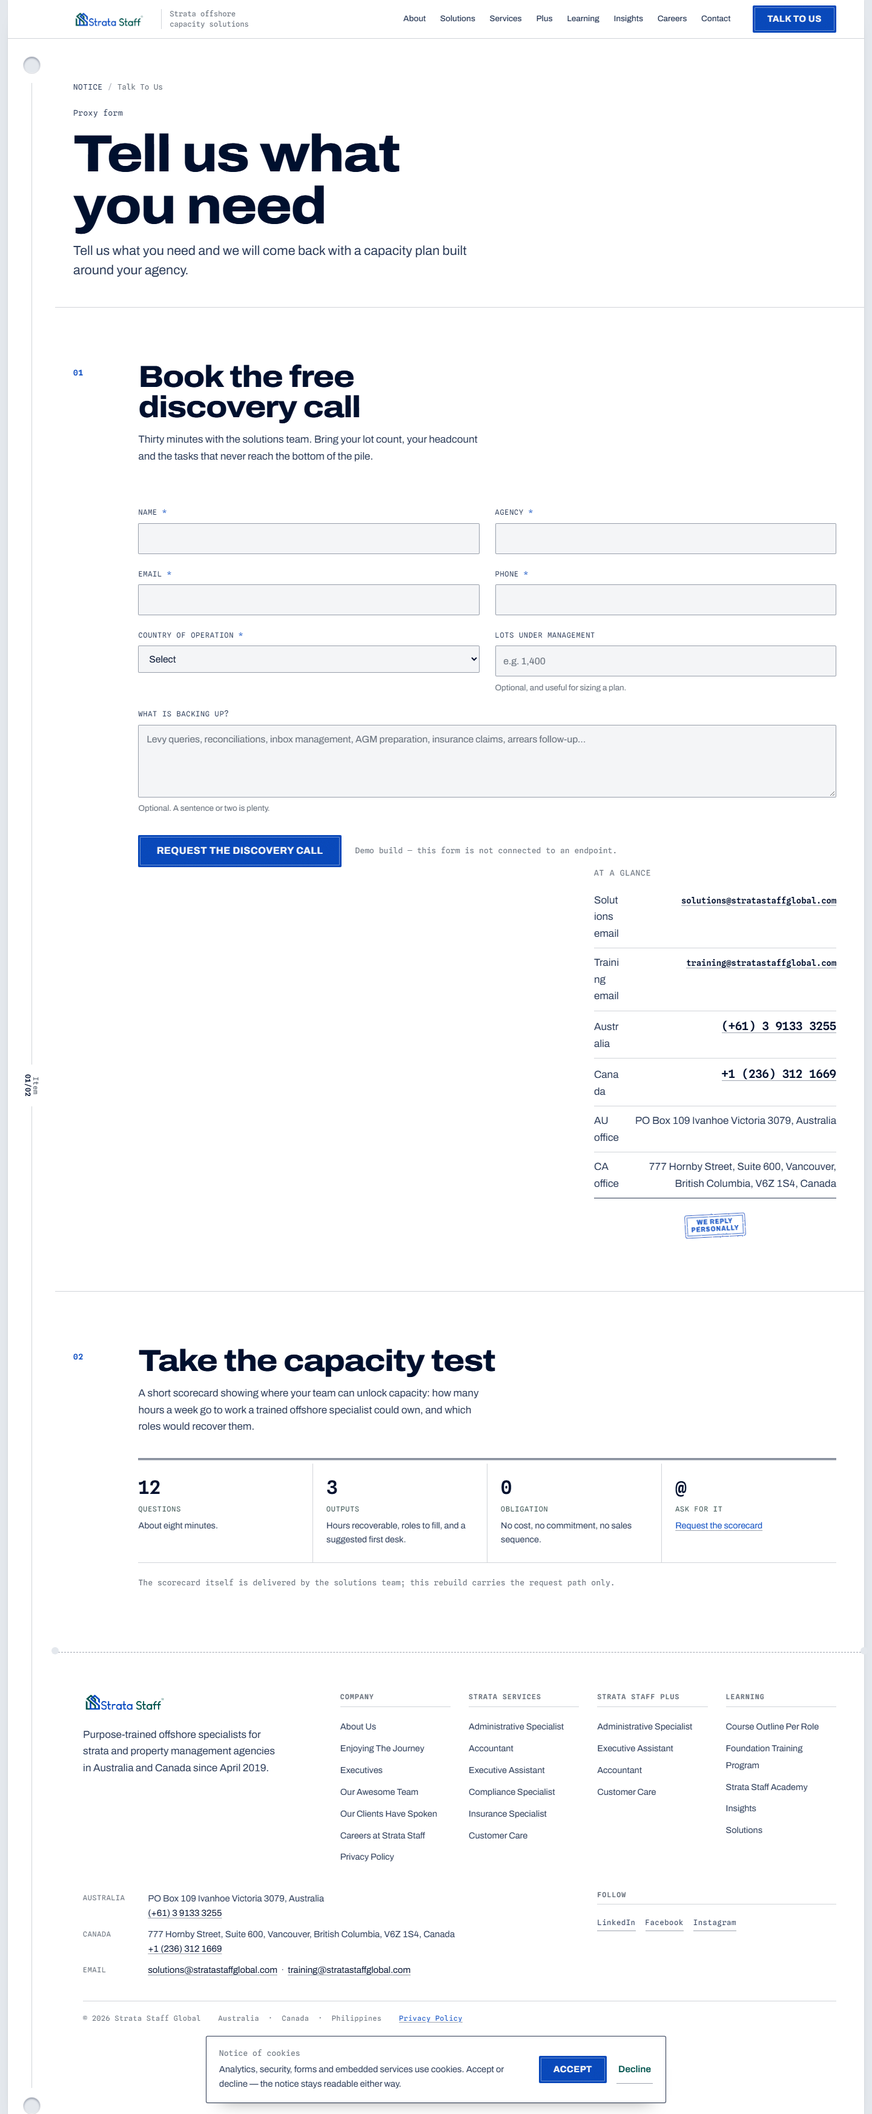
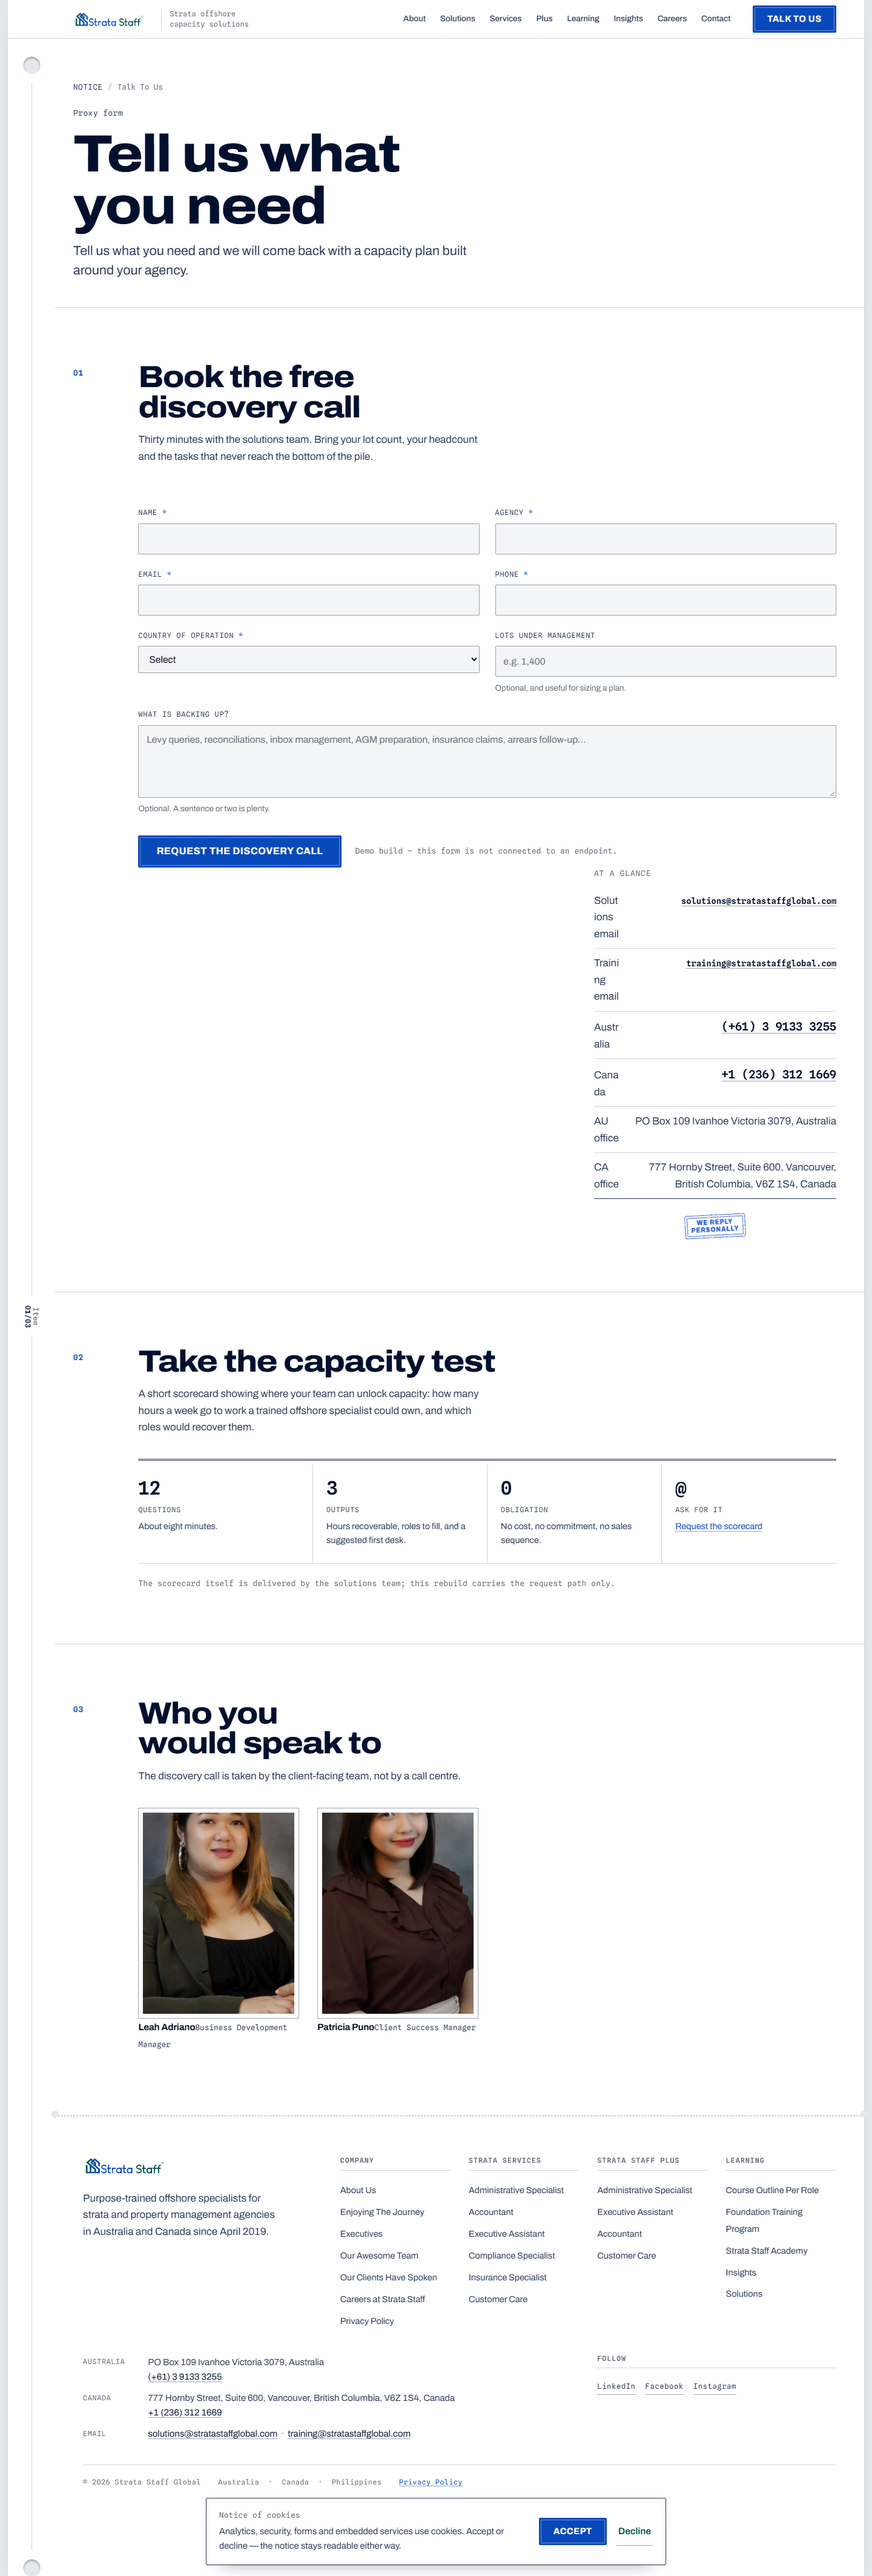
Record the second imagery pass in the docs
README, DESIGN.md and .impeccable/design.json brought in line with the build.

DESIGN.md gains a section 13 covering the rest of the site: the rule used to decide
where a photograph goes (only where the page's own subject is the thing pictured,
which is why five pages still have none), the table of which photograph went on
which page, the two optimiser bugs that would each have shipped a srcset lying
about a file's width, the four post images that are designed panels rather than
photographs and so are mounted uncropped, the alt="" policy, and the hardcoded
item number found while placing the office bearers.

Two numbers in it were wrong on the first write and are corrected: the pass started
from 12 of 40 pages carrying photography, not 22, so it left 28 pages bare rather
than 29. Counted rather than asserted.

design.json is now written by strata-scan/update-design-4.mjs rather than edited by
hand, because the counts in it have to match the build and the only way to be sure
is to compute them. It records coverage, the second-pass detail, the optimiser
bugs, the numbering defect, the client-portrait check, detector 251 with the
numbered-section-labels explanation, and five new components (43 total).

The detector total is stated as 251 with the reason it rose from 242: the entire
increase is numbered-section-labels, because real numbered sections were added to
previously bare pages. That rule fires on the existence of the labels, and the
[…]

diff --git a/README.md b/README.md
@@ -44,11 +44,12 @@ system, `app.js` for interaction, and `content/*.json` for posts and jobs.
 | `app.js` | Progressive enhancement only. Every page works without it. |
 | `build.mjs` | The generator. |
 | `serve.mjs` | The preview server. |
-| `assets/` | Fonts, the logo and favicon, **19 named team portraits**, 8 role photographs, 4 executive portraits, platform marks, membership seals, flags, the authored highlighter SVG. 1.6MB across 78 files. |
+| `assets/` | Fonts, the logo and favicon, **19 named team portraits**, 8 role photographs, 4 executive portraits, 8 post and office photographs, 9 client portraits, platform marks, membership seals, flags, the authored highlighter SVG. 2.3MB across 93 files. |
 | `assets/people/` | The nineteen board portraits, 3:4 and 480×640, each cropped around its own measured face. Named from the pairing the incumbent publishes. |
 | `assets/portrait/` | Role photographs at 400w and 800w, 4:5. These carry **no published personal name** — they are role illustrations and are captioned as roles. |
 | `assets/exec/` | The four office bearers at 400w and 800w, 4:5. |
-| `content/` | Posts, job listings and the team register as JSON. `team.json` is generated by the asset pass, not typed by hand. |
+| `assets/post/` | The eight posts' own featured images, plus the office photograph used on the careers page. Uncropped, at two widths each. |
+| `content/` | Posts, job listings and the team register as JSON. `team.json` and `post-images.json` are generated by the asset passes, not typed by hand. |
 | `tools/measure-fit.html` | Measures every page for horizontal overflow, height in screens, word count and how much of the viewport the sheet covers — and names the widest element behind any overflow. |
 | `tools/measure-fit.ps1` | The runner for the above. Boots the preview server if needed and drives Chrome headless. |
 | `tools/measure-blocks.html` | Measures one page block by block, with the computed padding and border of any selector's children. `-Upper` dumps every element the stylesheet uppercases. |
@@ -61,6 +62,8 @@ system, `app.js` for interaction, and `content/*.json` for posts and jobs.
 | `tools/detect-show.mjs` | Prints the detail behind one rule's findings, e.g. `node tools/detect-show.mjs cramped`. |
 | `tools/detect-json.mjs` | Runs the detector and parses its JSON without a shell redirect, which corrupts the stream with a BOM and the wrong code page. Exits non-zero by design, so it reads the payload off the thrown error. |
 | `tools/srcset-check.mjs` | Checks every `srcset` candidate, `<link href>` and CSS `url()` against disk, then names every shipped image that nothing points at. The build's own orphan report only walked `src`, so an 800w candidate could break while the `src` fallback still resolved. |
+| `tools/post-check.mjs` | Checks the rendered `srcset` against the files on disk by reading each WebP's real header width — not against the manifest, because a manifest-only check would pass the mislabelled-name bug it exists to catch. |
+| `tools/imagery-audit.mjs` | Reports which of the 40 pages carry photography and which do not, and exits non-zero if a page carries none without being declared. Coverage work regresses silently, so it is made askable. |
 | `DESIGN.md` | The design system, the accessibility decisions, and the detector findings. |
 | `PRODUCT.md` | The product truth every claim on the site traces back to. |
 | `.impeccable/` | The direction contract, the machine-readable design record, and rendered plates. |
@@ -94,8 +97,8 @@ horizontal overflow, the height of each page in screens, its word count, and how
 much of the viewport the sheet actually covers. It also names the widest
 contributing element behind any overflow.
 
-Current result: **zero horizontal overflow at 320, 390, 768, 1024, 1099, 1180,
-1280, 1440, 1920 and 2560px**, and the sheet covers **96.5%–98.7%** of the
+Current result: **zero horizontal overflow at 320, 390, 640, 768, 980, 1024, 1099,
+1180, 1280, 1440, 1920 and 2560px**, and the sheet covers **96.9%–99.0%** of the
 viewport at every one of them. An earlier revision overflowed on all 40 pages
 below 670px and left up to 560px of dead desk either side on a wide monitor.
 
@@ -107,8 +110,9 @@ guessing, and it is how three defects were located: role rows rendering at
 home page's true height. Both tools are development-only and ship nothing.
 
 The home page is now an overview, on the incumbent's own order (**10.5 screens at
-1440×900**, 17.0 at 390×844, 21.3 at 320×720). The other 39 pages are unchanged in
-structure. See `DESIGN.md` §11 and §12.
+1440×900**, 17.0 at 390×844, 21.3 at 320×720). The **median page is 4.3 screens**;
+the home page is the tallest on the site by a wide margin, which is the point of it
+being the overview. See `DESIGN.md` §11 and §12.
 
 **It is deliberately longer than the 7.0 screens an earlier revision measured.**
 The request being answered was that the page was *too much text*, not that it was
@@ -143,15 +147,38 @@ published pages at the largest size it publishes, and re-encoded for the web.
   `Model-*.webp` role photographs have no published personal name. They are role
   illustrations, captioned by role. Inventing an identity for a stock photograph
   of a real employee would be the most damaging thing this rebuild could do.
-- **`assets/` is 1.6MB, down from 8.4MB.** The executives were re-encoded to WebP
+- **`assets/` is 2.3MB, down from 8.4MB.** The executives were re-encoded to WebP
   at two widths (6.79MB → 1.10MB, −84%), the team portraits were replaced at
-  480×640, and 33 files that no shipped page referenced were removed. The 14
-  original sources were *moved* to `strata-scan/raw-portrait/` rather than
-  deleted, because the optimiser reads them — re-running it from the new folder
-  reproduces every shipped file byte for byte.
+  480×640, the eight post images were normalised uncropped (1.57MB → 698KB), and 33
+  files that no shipped page referenced were removed. The original sources were
+  *moved* to `strata-scan/raw-portrait/` and `strata-scan/raw-post/` rather than
+  deleted, because the optimisers read them — re-running either reproduces every
+  shipped file byte for byte.
+- **The post images are not cropped, and that is deliberate.** Measured, they run
+  from a 2:1 office photograph to a 1:1 square announcement panel, and four of the
+  eight have almost no edge detail (mean 2.7–7.8 against 37.3 for the one clear
+  photograph) — which is what a flat designed panel carrying its own type looks
+  like. Cropping a square panel to a landscape box would cut that type out, so each
+  keeps its own aspect and is fitted `contain` on a tinted ground. Widths are
+  recorded in `content/post-images.json` rather than assumed, so a `srcset` cannot
+  advertise a candidate the file does not have.
+- **Every one of them is `alt=""`.** These images carry nothing the surrounding
+  text does not, and nobody here has looked at them, so a description would be
+  invented. An empty alt states the image is decorative; a fabricated one would be
+  a claim about a picture nobody has seen. The named portraits are the exception
+  and carry their name and role.
 
-`node tools/srcset-check.mjs` verifies every width candidate and names every
-orphan. Current result: **0 missing, 0 orphans.**
+Three tools cover imagery:
+
+```
+node tools/srcset-check.mjs    # every candidate and url() resolves; 0 missing, 0 orphans
+node tools/post-check.mjs      # the rendered srcset agrees with the file's real width
+node tools/imagery-audit.mjs   # which pages carry photography, and which say why not
+```
+
+**Coverage: 35 of the 40 pages carry photography.** The five that do not are
+declared in `tools/imagery-audit.mjs` with their reasons, and the tool exits
+non-zero if a page carries none without being declared.
 
 ## Accessibility
 
@@ -187,7 +214,18 @@ beside their own visible captions — carry an empty one.
   `team.html` says so on the page.
 - **The eight role photographs carry no personal name**, because the incumbent
   publishes none against them. They are captioned by role only; no identity is
-  invented for them.
+  invented for them. Two of the ten roles have no photograph at all — the
+  incumbent does not publish one for the insurance specialist or the property
+  management customer care role — and those pages keep the stamp rather than
+  borrowing another role's face.
+- **Five of the 40 pages carry no photography**, each for a stated reason and each
+  declared in `tools/imagery-audit.mjs`: `privacy.html` (a legal document),
+  `404.html` (a dead end), `academy.html` (enrolment particulars and a form), and
+  the two role pages above.
+- **Every post and office photograph has an empty `alt`.** Those images carry
+  nothing the surrounding text does not, and nobody here has looked at them, so
+  any description would have been invented. The named portraits are the exception
+  and carry their name and role.
 - **`Strata Executive Assistant` has no page in the live sitemap**, though the
   navigation lists it. That role page is built only from real published phrases
   and its real five training modules.
@@ -196,14 +234,14 @@ beside their own visible captions — carry an empty one.
 
 ## Detector
 
-`impeccable detect` runs over all 40 pages and reports **242 findings, down from
-1109**. Seven rule classes were eliminated outright. Of the 242, **238 are
+`impeccable detect` runs over all 40 pages and reports **251 findings, down from
+1109**. Seven rule classes were eliminated outright. Of the 251, **247 are
 deliberate** and reasoned in `DESIGN.md` §8; the remaining 4 are `cramped-padding`
 findings on the home page that were measured in the browser and are artefacts of
 the detector's CSS cascade handling — it reports a border with no inset where the
 rendered insets are 19–82px. The measurements are in `DESIGN.md` §7.
 
-Two corrections got it there, both recorded rather than defended. `all-caps-body`
+Two corrections got it to 242, both recorded rather than defended. `all-caps-body`
 had been excused as "button and control labels"; dumping every uppercase text node
 showed `.btn2` was uppercasing 40-character sentences and rendering the solutions
 email address as `SOLUTIONS@STRATASTAFFGLOBAL.COM`. `.btn2` is now sentence case.
@@ -215,10 +253,18 @@ purpose is telling a visitor who the face belongs to. `tiny-text` and
 sentence case; the register overrides that shrank it further were deleted. That
 returned the total to 242 with `tiny-text` at zero.
 
-**The engine changed under this work** — from `0.1.6` to `4.1.0`, which adds a
-`tiny-text` rule and reports `cramped-padding` more widely. So the two 242s are not
-the same measurement: the *composition* matches, the engine does not. Both figures
-and both engines are recorded in `.impeccable/design.json`.
+**The total then rose to 251, and the rise is entirely one rule.**
+`numbered-section-labels` went 122 → 130 because the second imagery pass added
+eight real numbered sections to previously bare pages. The rule fires on the
+*existence* of numbered section labels; here the numbering is the design's
+organising device — the pages read as a set of agenda items and the numbers carry
+real sequence — so it is the one rule knowingly not complied with, and the count
+moving with genuine content is the expected consequence.
+
+**The engine also changed under this work** — from `0.1.6` to `4.1.0`, which adds a
+`tiny-text` rule and reports `cramped-padding` more widely. So the earlier 242s are
+not the same measurement as each other: the *composition* matches, the engine does
+not. Every figure and both engines are recorded in `.impeccable/design.json`.
 
 `tools/detect-all.mjs` re-runs the sweep and summarises by rule;
 `tools/detect-show.mjs <rule>` prints the detail for one rule, which is how each

diff --git a/DESIGN.md b/DESIGN.md
@@ -847,3 +847,134 @@ Both numbers are stated here so the trade is visible rather than implied.
 Horizontal overflow remains zero at 320, 390, 768, 1024, 1099, 1180, 1280, 1440,
 1920 and 2560px.
 
+## 13. The imagery system, second pass: the rest of the site
+
+§12 put the company's own photography on the home and team pages. It left **28 of
+the 40 pages carrying no photograph at all**, including `solutions.html` — the page
+whose heading is "Meet our offshore specialists" and which had 23 images, every one
+of them a platform mark or the logo.
+
+The cause was the same one §12 records. The original scan captured markup and copy
+but never pulled the images those pages display. The difference in this pass is
+that eight of those images are *per-post featured images* the incumbent publishes
+as its own `og:image`, so they could be fetched by name rather than guessed at from
+the `<img>` tags in the article bodies — the two newsletter posts carry 8–14 page
+scans, which are the article's content, not its hero.
+
+### The rule used to decide where a photograph goes
+
+A photograph was added to a page only where the page's own subject is the thing
+pictured. That produced a smaller change than blanket coverage would have, and it
+is the reason five pages still have none:
+
+| Page | The photograph, and why it belongs there |
+| --- | --- |
+| `solutions.html` | The eight role photographs, as one strip, because the page is a list of roles |
+| `strata-services.html`, `strata-staff-plus.html` | Each role's own photograph beside its name in the table — the face sits against the role it belongs to |
+| `about.html` | The four office bearers, as the answer to "who is behind this" |
+| `journey.html` | The same four, captioned as *the people this timeline names* — the timeline already names them |
+| `foundation-training-program.html`, `learning.html` | The training manager and the two lead trainers |
+| `course-outline.html` | Each role's photograph in its own tab, so switching tabs changes the face with the syllabus |
+| `careers.html` | The office photograph the company published when it refurbished Angeles City, captioned as where these roles are based |
+| the four job pages | The two colleagues that vacancy sits with |
+| `contact.html` | The business development and client success managers, who are the "solutions team" the page already names |
+| `insights.html`, the eight posts | Each post's own featured image |
+
+Nothing was invented to make a page look busier. The lede on
+`foundation-training-program.html` says the lead trainers cover *two* disciplines
+rather than claiming one per discipline, because the accounting lead trainer is one
+of the twenty names the incumbent publishes without a usable photograph; the page
+says what is true instead of a rounder version of it.
+
+### Two bugs in the optimiser, both of which would have shipped a lie
+
+**The width in the filename was the width requested, not the width produced.** The
+600px source was written as `-1200.webp`, so the `srcset` advertised a 1200w
+candidate that did not exist: a large viewport would have selected it and upscaled
+a 600px file. Widths are now data. `optimise-post.py` writes
+`content/post-images.json` recording the real pixel width of every variant and the
+build generates `srcset` from that.
+
+**Sources between 640 and 1200 got only a 640 variant**, so those heroes would also
+have upscaled. The script now emits the source width in that range, and caps at
+1200 rather than shipping the 1536 and 2048 originals — about 250KB of pixels no
+layout asks for.
+
+`tools/post-check.mjs` verifies the rendered `srcset` against **the files on disk**,
+reading each WebP's real header width, rather than against the manifest. A
+manifest-only check would pass the mislabelled-name bug the tool exists to catch.
+
+### Four of the eight post images are not photographs
+
+Measured with the same tells §12 used for the section panels — distinct colours,
+mean edge energy — they run from a 2:1 office photograph at 37.3 edge energy to a
+1:1 announcement panel at 2.7, which is what a flat designed panel carrying its own
+type looks like. So they are **not cropped to a common box**: each keeps its own
+aspect and is fitted `contain` on the `--sheet-2` ground, which reads as a plate
+mounted on a sheet. Cropping a square panel to a landscape box would cut the type
+out of it.
+
+`alt=""` on every one. They carry nothing the surrounding text does not, and nobody
+here has looked at them, so a description would have been invented. An empty alt
+states the image is decorative; a fabricated one is a claim about a picture nobody
+has seen. The named portraits are the exception and carry their name and role —
+composed from `team.json`, not typed.
+
+### A defect found while placing the office bearers
+
+`ctaBlock` had a hardcoded `data-item="09"` on all fifteen pages that use it, and
+`.item__no` is not hidden — it renders as blue mono text in the gutter. So
+`about.html` printed **"01 02 03 04 09"**, telling the reader four sections were
+missing. Every page with fewer than nine items printed the same false jump:
+`solutions` printed 01 02 03 09, `team` and `journey` printed 01 02 09.
+
+Both the attribute and the printed number are now derived from document order after
+the page is generated, and the build asserts both sequences on every page:
+
+```
+data-item sequence is 01 02 04      -> flaw
+printed item numbers are 01 02 04   -> flaw
+```
+
+That check is what would have caught the hardcoded 09, and it is the class of
+defect that survives review because each page looks locally consistent.
+
+### Coverage is now something the build can be asked about
+
+`tools/imagery-audit.mjs` reports which pages carry photography and which do not,
+and exits non-zero if a page carries none without being declared. Imagery work
+regresses silently — a page rebuilt from a template loses its plates and nothing
+fails.
+
+Writing it found a bug in itself worth recording: the first version tested for
+`assets/client/` and so reported `testimonials.html` as carrying **no** photography,
+when it carries nine client faces, because those files are flat at the top of
+`assets/` as `client-*.jpg`. A coverage tool that misreports coverage is worse than
+none. The nine client portraits were then checked properly: all 150×150, 72KB in
+total, served at exactly their natural size, needing no optimisation pass.
+
+### Where the numbers went
+
+| Measure | After §12 | After §13 |
+| --- | --- | --- |
+| Pages carrying photography | 12 of 40 | **35 of 40** |
+| `assets/` on disk | 1.6MB | **2.3MB** (93 files) |
+| Median page, 1440px | 4.0 screens | 4.3 screens |
+| Home page, 1440px | 10.5 screens | unchanged |
+| Detector findings | 242 | 251 |
+| — of which `numbered-section-labels` | 121 | 130 |
+
+The detector total rose by nine and the rise is entirely that one rule, which fires
+on the *existence* of numbered section labels. Here the numbering is the design's
+organising device — the pages read as agenda items and the numbers carry real
+sequence — so it is the one rule knowingly not complied with, and the count moving
+with genuine added content is the expected consequence rather than a regression.
+
+The five pages still without photography are declared, with reasons, in
+`tools/imagery-audit.mjs`: `privacy.html` (a legal document), `404.html` (a dead
+end), `academy.html` (enrolment particulars and a form; the role tracks are on
+`course-outline.html`), and `role-insurance-specialist.html` /
+`role-pm-customer-care.html`, for which the incumbent publishes no photograph —
+those keep the stamp rather than borrowing another role's face.
+
+
